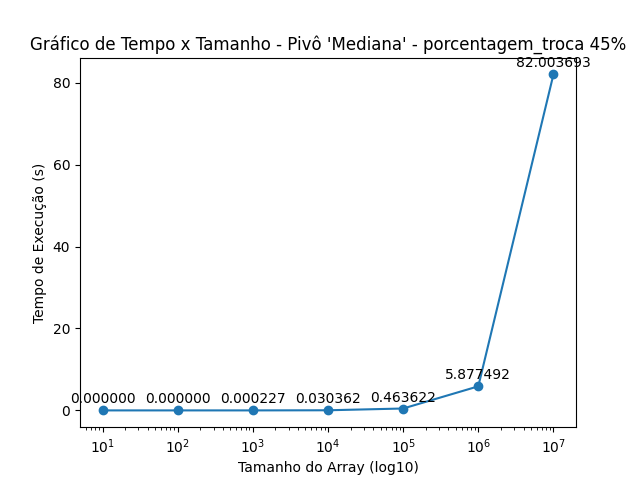
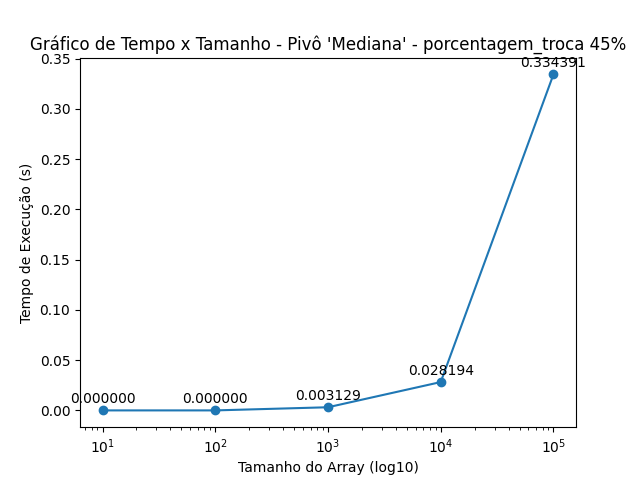
atualização de grafico

diff --git a/QuickSort.py b/QuickSort.py
@@ -53,18 +53,18 @@ class QuickSort:
         elif metodo_pivo == 6:
             return self.achaPivo(inicio, fim, A) 
 
-    def quickSort(self, array, low, high, pivot_type):
-        if low >= high:
+    def quickSort(self, array, inicio, fim, tipo_pivo):
+        if inicio >= fim:
             return
 
         # Seleciona o pivô de acordo com o método escolhido
-        p = self.selecionaPivo(array, low, high, pivot_type)
+        p = self.selecionaPivo(array, inicio, fim, tipo_pivo)
 
         if p is None:
             return
 
-        i = low
-        j = high
+        i = inicio
+        j = fim
 
         while i <= j:
             while array[i] < p:
@@ -78,32 +78,32 @@ class QuickSort:
                 i += 1
                 j -= 1
 
-        if low < j:
-            self.quickSort(array, low, j, pivot_type)
+        if inicio < j:
+            self.quickSort(array, inicio, j, tipo_pivo)
 
-        if i < high:
-            self.quickSort(array, i, high, pivot_type)
+        if i < fim:
+            self.quickSort(array, i, fim, tipo_pivo)
 
-    def selecionaPivo(self, arr, low, high, pivot_type):
+    def selecionaPivo(self, arr, inicio, fim, tipo_pivo):
         
-        if pivot_type == 1:
-            return arr[low]
+        if tipo_pivo == 1:
+            return arr[inicio]
 
-        if pivot_type == 2:
-            return arr[(high + low)//2]
+        if tipo_pivo == 2:
+            return arr[(fim + inicio)//2]
 
-        if pivot_type == 3:
-            return calcularMedia(arr, low, high)
+        if tipo_pivo == 3:
+            return calcularMedia(arr, inicio, fim)
 
-        if pivot_type == 4:
-            return arr[np.random.randint(low, high+1)]
+        if tipo_pivo == 4:
+            return arr[np.random.randint(inicio, fim+1)]
 
-        if pivot_type == 5:
-            array = arr[low:high]
-            return self.buscaMediana( array, len( array))
+        if tipo_pivo == 5:
+            array = arr[inicio:fim]
+            return self.mediana(array)
 
-        if pivot_type == 6:
-            return self.achaPivo(arr, low, high)
+        if tipo_pivo == 6:
+            return self.achaPivo(arr, inicio, fim)
 
     def achaPivo(self, L, n1, n2):
         pos = n1 + 1
@@ -117,66 +117,53 @@ class QuickSort:
                 pivo = pos-1
                 break
 
-        return L[pivo] if pivo is not None else pivo
+        if pivo is not None:
+            return L[pivo]
+        else:
+            return pivo
 
-    def particaoMediana(self, arr, l, r) : 
- 
-        lst = arr[r]; i = l; j = l; 
-        while (j < r) :
-            if (arr[j] < lst) :
-                arr[i], arr[j] = arr[j],arr[i]; 
-                i += 1; 
-            
-            j += 1; 
-    
-        arr[i], arr[r] = arr[r],arr[i]; 
-        return i; 
+    def partitionMediana(self, arr, left, right, pivot):
+        pivot_value = arr[pivot]
+        arr[pivot], arr[right] = arr[right], arr[pivot]
+        store_index = left
 
-    def particaoAleatorioMediana(self, arr, l, r) :
-        n = r - l + 1
-        pivot = random.randrange(1, 100) % n
-        arr[l + pivot], arr[r] = arr[r], arr[l + pivot]
-        return self.particaoMediana(arr, l, r); 
+        for i in range(left, right):
+            if arr[i] < pivot_value:
+                arr[i], arr[store_index] = arr[store_index], arr[i]
+                store_index += 1
+
+        arr[store_index], arr[right] = arr[right], arr[store_index]
+        return store_index
+
+
+    def quickselectMediana(self, arr, left, right, k):
+        if left == right:
+            return arr[left]
+
+        pivot = (right + left) // 2
+        new_pivot_index = self.partitionMediana(arr, left, right, pivot)
+        diff = new_pivot_index - left
+
+        if diff == k:
+            return arr[new_pivot_index]
+        elif k < diff:
+            return self.quickselectMediana(arr, left, new_pivot_index - 1, k)
+        else:
+            return self.quickselectMediana(arr, new_pivot_index + 1, right, k - diff - 1)
+
+
+    def mediana(self, arr):
+        if not arr:
+            return None
+
+        length = len(arr)
+
+        if length % 2 == 1:
+            return self.quickselectMediana(arr, 0, length - 1, length // 2)
+        else:
+            inicioer = self.quickselectMediana(arr, 0, length - 1, length // 2 - 1)
+            fimer = self.quickselectMediana(arr, 0, length - 1, length // 2)
+            return (inicioer + fimer) / 2.0
+
+
     
-    def utilMediana(self, arr, l, r, 
-                    k, a1, b1) : 
-    
-        global a, b
-        
-        if (l <= r) :
-        
-            indexDaParticao = self.particaoAleatorioMediana(arr, l, r)
-            
-            if (indexDaParticao == k) :
-                b = arr[indexDaParticao]
-                if (a1 != -1) :
-                    return
-        
-            elif (indexDaParticao == k - 1) :
-                a = arr[indexDaParticao]
-                if (b1 != -1) :
-                    return
-    
-            if (indexDaParticao >= k) :
-                return self.utilMediana(arr, l, indexDaParticao - 1, k, a, b)
-                
-            else :
-                return self.utilMediana(arr, indexDaParticao + 1, r, k, a, b)
-                
-        return; 
-    
-    def buscaMediana(self, arr, n) :
-        global a
-        global b
-        a = -1
-        b = -1
-        
-        if (n % 2 == 1) :
-            self.utilMediana(arr, 0, n - 1, n // 2, a, b)
-            ans = b
-            
-        else :
-            self.utilMediana(arr, 0, n - 1, n // 2, a, b)
-            ans = (a + b) // 2
-            
-        return ans

diff --git a/teste.py b/teste.py
@@ -1,0 +1,48 @@
+def partition(arr, left, right, pivot):
+    pivot_value = arr[pivot]
+    arr[pivot], arr[right] = arr[right], arr[pivot]
+    store_index = left
+
+    for i in range(left, right):
+        if arr[i] < pivot_value:
+            arr[i], arr[store_index] = arr[store_index], arr[i]
+            store_index += 1
+
+    arr[store_index], arr[right] = arr[right], arr[store_index]
+    return store_index
+
+
+def quickselect(arr, left, right, k):
+    if left == right:
+        return arr[left]
+
+    pivot = (right + left) // 2
+    new_pivot_index = partition(arr, left, right, pivot)
+    diff = new_pivot_index - left
+
+    if diff == k:
+        return arr[new_pivot_index]
+    elif k < diff:
+        return quickselect(arr, left, new_pivot_index - 1, k)
+    else:
+        return quickselect(arr, new_pivot_index + 1, right, k - diff - 1)
+
+
+def median(arr):
+    if not arr:
+        return None
+
+    length = len(arr)
+
+    if length % 2 == 1:
+        return quickselect(arr, 0, length - 1, length // 2)
+    else:
+        lower = quickselect(arr, 0, length - 1, length // 2 - 1)
+        higher = quickselect(arr, 0, length - 1, length // 2)
+        return (lower + higher) / 2.0
+
+
+import random
+
+array = [random.randint(0, 100) for _ in range(10)]
+print(f"array ordenado: {sorted(array)}, mediana: {median(array)}")

diff --git a/main.py b/main.py
@@ -1,16 +1,16 @@
 import random
 from QuickSort import QuickSort
-from util import plotar_e_salvar_grafico, trocar_porcentagem
+from util import lista_aleatoria_array, plotar_e_salvar_grafico, trocar_porcentagem
 
 quantidade_iteracoes = 10
 
-tamanhos_array = [int(1e1) , int(1e2), int(1e3), int(1e4), int(1e5), int(1e6), int(1e7)]
-# tamanhos_array = [int(1e1) , int(1e2), int(1e3), int(1e4), int(1e5)]
+# tamanhos_array = [int(1e1) , int(1e2), int(1e3), int(1e4), int(1e5), int(1e6), int(1e7)]
+tamanhos_array = [int(1e1) , int(1e2), int(1e3), int(1e4), int(1e5)]
 # tamanhos_array = [20, 30, 40, 50, 60]
 
 porcentagens_troca = [5, 25, 45]
 
-metodos_pivo = [1, 2, 3, 4, 6, 5]
+metodos_pivo = [1,2,3,4,5,6]
 
 metodos_pivo_nome = ["Primeiro", "Central",
                      "Média", "Randômico", "Mediana", "Acha Pivo"]
@@ -38,7 +38,7 @@ if __name__ == "__main__":
                     lista_aleatoria = list(range(tamanho_array))
                     
                     # Criando uma lista aleatória para ordenar (0 - n randomicos) ordenada (lento)
-                    # lista_aleatoria = lista_aleatoria_array(tamanho_array)
+                    # lista_aleatoria = lista_aleatoria_array(20)
                     
                     # Embaralhando a lista aleatória
                     trocar_porcentagem(lista_aleatoria, porcentagem_troca)
